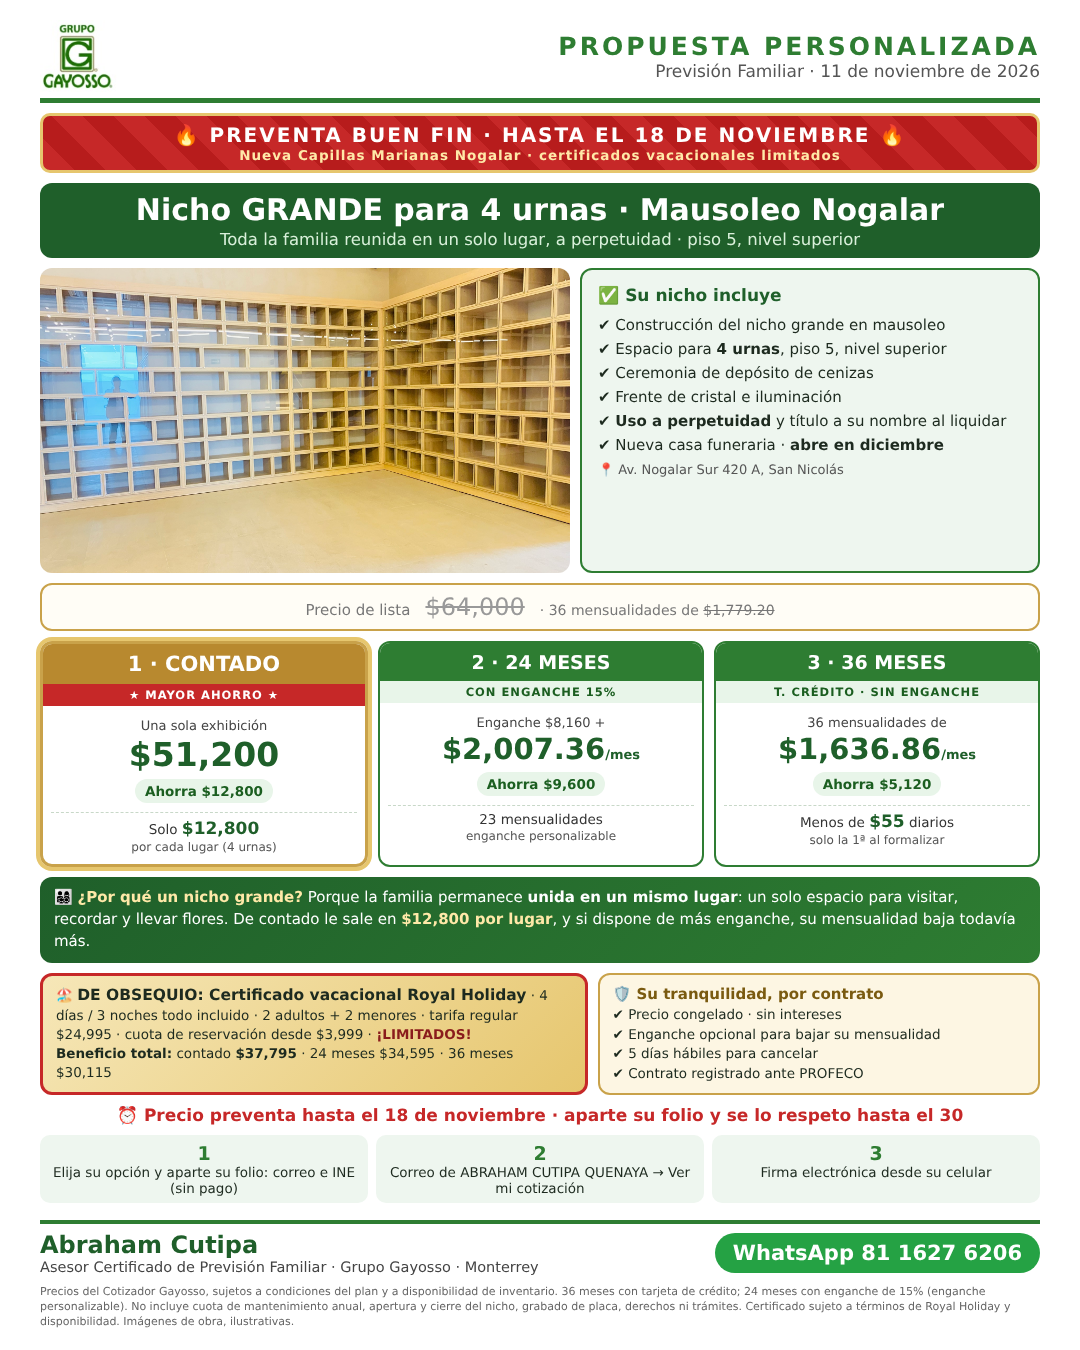
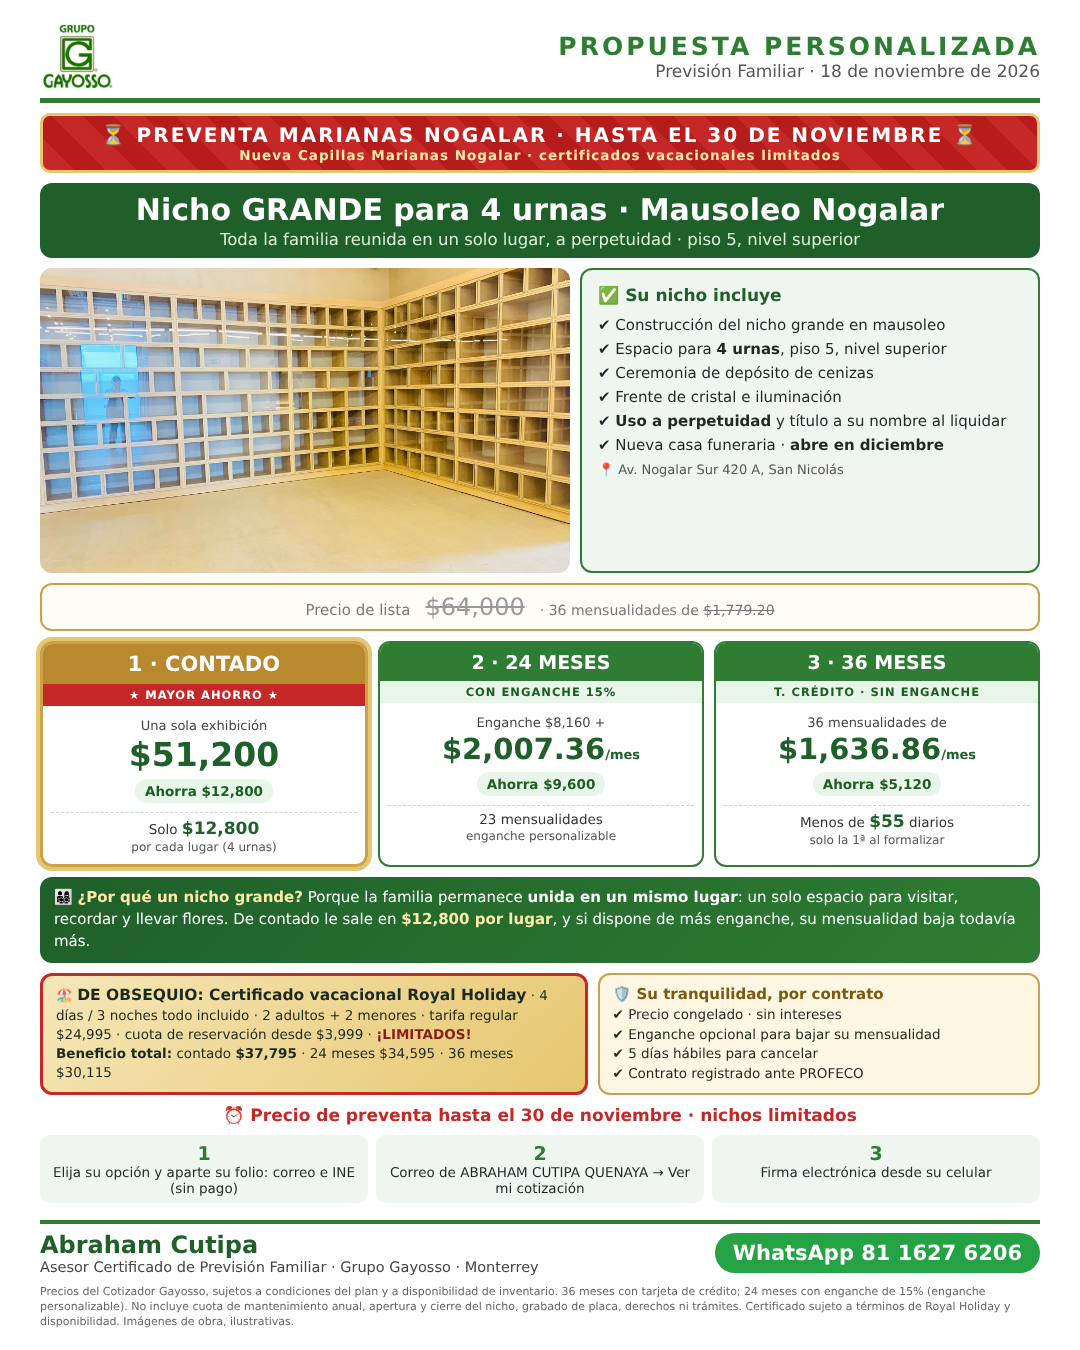
Nicho grande 4 urnas Nogalar: vigencia al 30 de noviembre
Claude-Session: https://claude.ai/code/session_01PccRGVGwaaPKDitcWkgoNs

Changed region(s): [[0.0917, 0.8089, 0.8861, 0.84], [0.0917, 0.0933, 0.8556, 0.1244], [0.8861, 0.0933, 0.9167, 0.1244]]

diff --git a/propuesta/nicho_grande_nogalar_sup.html b/propuesta/nicho_grande_nogalar_sup.html
@@ -27,7 +27,7 @@
 .fine{font-size:11px;color:#666;line-height:1.35}
 </style></head><body><div class="wrap">
 <div class="top"><img src="logo.jpg"><div><div class="k">PROPUESTA PERSONALIZADA</div><div class="d">Previsión Familiar · 11 de noviembre de 2026</div></div></div>
-<div class="rib">🔥 PREVENTA BUEN FIN · HASTA EL 18 DE NOVIEMBRE 🔥<small>Nueva Capillas Marianas Nogalar · certificados vacacionales limitados</small></div>
+<div class="rib">⏳ PREVENTA MARIANAS NOGALAR · HASTA EL 30 DE NOVIEMBRE ⏳<small>Nueva Capillas Marianas Nogalar · certificados vacacionales limitados</small></div>
 <div class="band"><div class="t">Nicho GRANDE para 4 urnas · Mausoleo Nogalar</div><div class="s">Toda la familia reunida en un solo lugar, a perpetuidad · piso 5, nivel superior</div></div>
 <div class="hero">
  <div class="ph"><img src="nogalar_nichos3.jpg"></div>
@@ -50,7 +50,7 @@
  <div class="gift">🏖 <b class="t">DE OBSEQUIO: Certificado vacacional Royal Holiday</b> · 4 días / 3 noches todo incluido · 2 adultos + 2 menores · tarifa regular $24,995 · cuota de reservación desde $3,999 · <b style="color:#8a1c1c">¡LIMITADOS!</b><br><b>Beneficio total:</b> contado <b>$37,795</b> · 24 meses $34,595 · 36 meses $30,115</div>
  <div class="tr"><b style="color:#7a5a10;font-size:15px">🛡 Su tranquilidad, por contrato</b><br>✔ Precio congelado · sin intereses<br>✔ Enganche opcional para bajar su mensualidad<br>✔ 5 días hábiles para cancelar<br>✔ Contrato registrado ante PROFECO</div>
 </div>
-<div class="vig">⏰ Precio preventa hasta el 18 de noviembre · aparte su folio y se lo respeto hasta el 30</div>
+<div class="vig">⏰ Precio de preventa hasta el 30 de noviembre · nichos limitados</div>
 <div class="steps"><div><b class="n">1</b>Elija su opción y aparte su folio: correo e INE (sin pago)</div><div><b class="n">2</b>Correo de ABRAHAM CUTIPA QUENAYA → Ver mi cotización</div><div><b class="n">3</b>Firma electrónica desde su celular</div></div>
 <div class="foot"><div><div class="n">Abraham Cutipa</div><div class="r">Asesor Certificado de Previsión Familiar · Grupo Gayosso · Monterrey</div></div><div class="w">WhatsApp 81 1627 6206</div></div>
 <div class="fine">Precios del Cotizador Gayosso, sujetos a condiciones del plan y a disponibilidad de inventario. 36 meses con tarjeta de crédito; 24 meses con enganche de 15% (enganche personalizable). No incluye cuota de mantenimiento anual, apertura y cierre del nicho, grabado de placa, derechos ni trámites. Certificado sujeto a términos de Royal Holiday y disponibilidad. Imágenes de obra, ilustrativas.</div>
